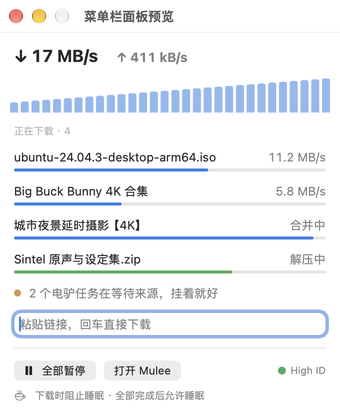
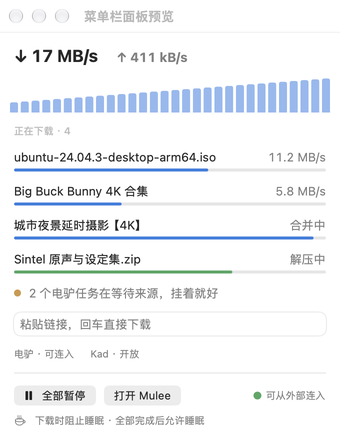
fix(ui): accurate Bilibili login note, ready engines in sample mode, new screenshots
The New Download note promised login syncing that the extension does
not do; sample data now shows engines as ready for previews and
screenshots; the sample proxy exit address uses the documentation range;
README screenshots are retaken from the current build, adding English
and Traditional Chinese.

diff --git a/Design/Prototype/Settings.dc.html b/Design/Prototype/Settings.dc.html
@@ -78,7 +78,7 @@
           <div class="s-body" data-screen-label="设置 · 网络">
             <div class="s-warn">
               <div class="s-wh"><span class="s-dot"></span>BT 和电驴的流量正在走代理</div>
-              <div class="s-wtxt">检测到 P2P 出口 IP 为 118.166.x.x（台湾），和你的宽带不一致。这会导致电驴 Low ID、BT 连不进来，还会消耗代理流量；部分代理服务禁止 P2P。把下面的规则加到 Stash / Clash 配置里，就能让 Mulee 的下载引擎直连。</div>
+              <div class="s-wtxt">检测到 P2P 出口 IP 为 203.0.x.x（境外），和你的宽带不一致。这会导致电驴 Low ID、BT 连不进来，还会消耗代理流量；部分代理服务禁止 P2P。把下面的规则加到 Stash / Clash 配置里，就能让 Mulee 的下载引擎直连。</div>
               <div class="s-code">PROCESS-NAME,amuled,DIRECT<br />PROCESS-NAME,mulee-torrentd,DIRECT</div>
               <div class="fx gap8"><div class="s-btn">复制规则</div><div class="s-btn">重新检测</div></div>
             </div>

diff --git a/Mulee/App/MuleeApp.swift b/Mulee/App/MuleeApp.swift
@@ -25,6 +25,10 @@ struct MuleeApp: App {
             unzipRules: usesSampleData ? MockData.unzipRules : [],
             preventsSleepWhileDownloading: settings.preventSleep
         )
+        if usesSampleData {
+            // 示例数据模式不启动引擎；截图和预览里按「都已就绪」展示。
+            for kind in TaskKind.allCases { model.engineStates[kind] = .running }
+        }
         _model = State(initialValue: model)
         appDelegate.configure(model: model, settings: settings, usesSampleData: usesSampleData)
     }

diff --git a/Packages/MuleeCore/Sources/MuleeCore/Mock/MockData.swift b/Packages/MuleeCore/Sources/MuleeCore/Mock/MockData.swift
@@ -141,7 +141,7 @@ public enum MockData {
         portMappingSucceeded: true
     )
 
-    /// 设置·网络页用的「P2P 走了代理」状态（来自 2026-10-15 技术验证的真实情况）。
+    /// 设置·网络页用的「P2P 走了代理」状态（出口地址用文档保留段 203.0.113.0/24）。
     public static let proxiedNetwork = NetworkStatus(
         ed2kID: .low,
         kad: .firewalled,

diff --git a/Mulee/Features/NewTask/NewTaskFooterView.swift b/Mulee/Features/NewTask/NewTaskFooterView.swift
@@ -41,7 +41,7 @@ struct NewTaskFooterView: View {
             }
 
             if draft.hasVideoLinks {
-                Text("安装浏览器扩展后可自动同步 B 站登录状态，下载高码率画质。")
+                Text("需要登录才能看的画质（例如 B 站大会员画质）暂不支持。")
                     .font(.caption)
                     .foregroundStyle(.secondary)
             }

diff --git a/MuleeTests/NetworkPresentationTests.swift b/MuleeTests/NetworkPresentationTests.swift
@@ -4,7 +4,7 @@ import Testing
 
 @Suite struct NetworkPresentationTests {
     @Test func masksIPv4() {
-        #expect(NetworkPresentation.maskedIP("203.0.113.71") == "118.166.x.x")
+        #expect(NetworkPresentation.maskedIP("203.0.113.71") == "203.0.x.x")
     }
 
     @Test func masksIPv6() {

diff --git a/README.md b/README.md
@@ -20,12 +20,15 @@
 ![主窗口](docs/screenshots/main-light.png)
 
 <details>
-<summary>更多截图：暗色模式、新建下载、菜单栏、设置</summary>
+<summary>更多截图：暗色模式、新建下载、菜单栏、设置、English、繁體中文</summary>
 
 ![暗色模式](docs/screenshots/main-dark.png)
 ![新建下载](docs/screenshots/new-task.png)
 <img src="docs/screenshots/menu-bar.png" width="340" alt="菜单栏面板">
 <img src="docs/screenshots/settings-network.png" width="720" alt="设置 · 网络">
+
+![English](docs/screenshots/main-en.png)
+![繁體中文](docs/screenshots/main-zh-hant.png)
 
 </details>
 
